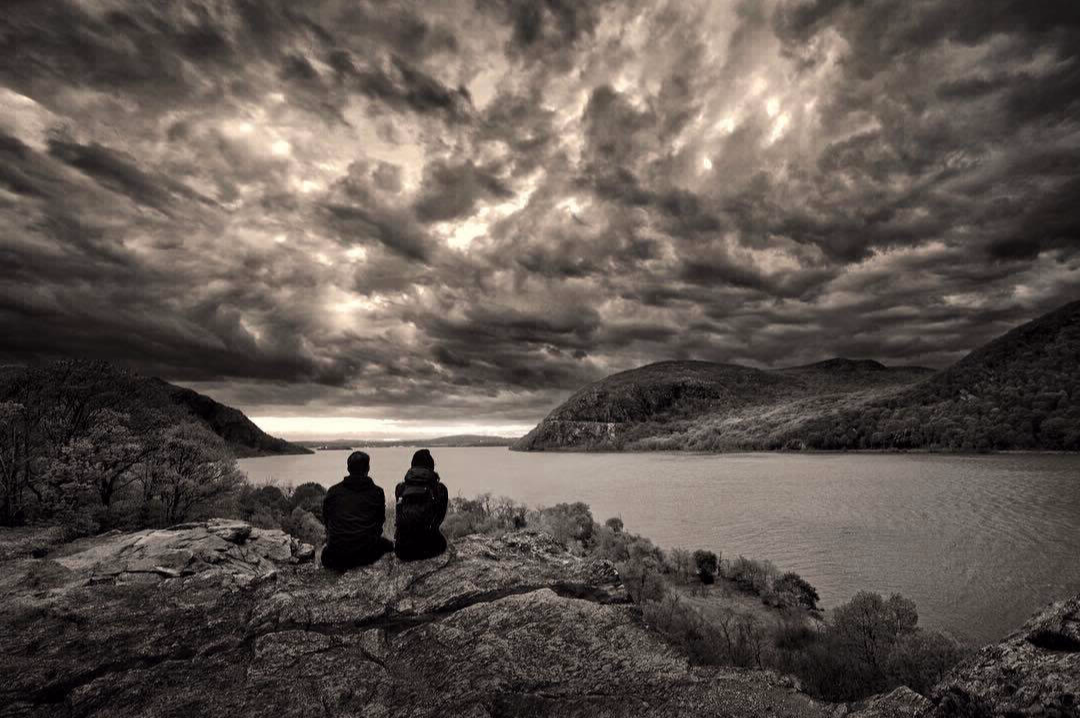
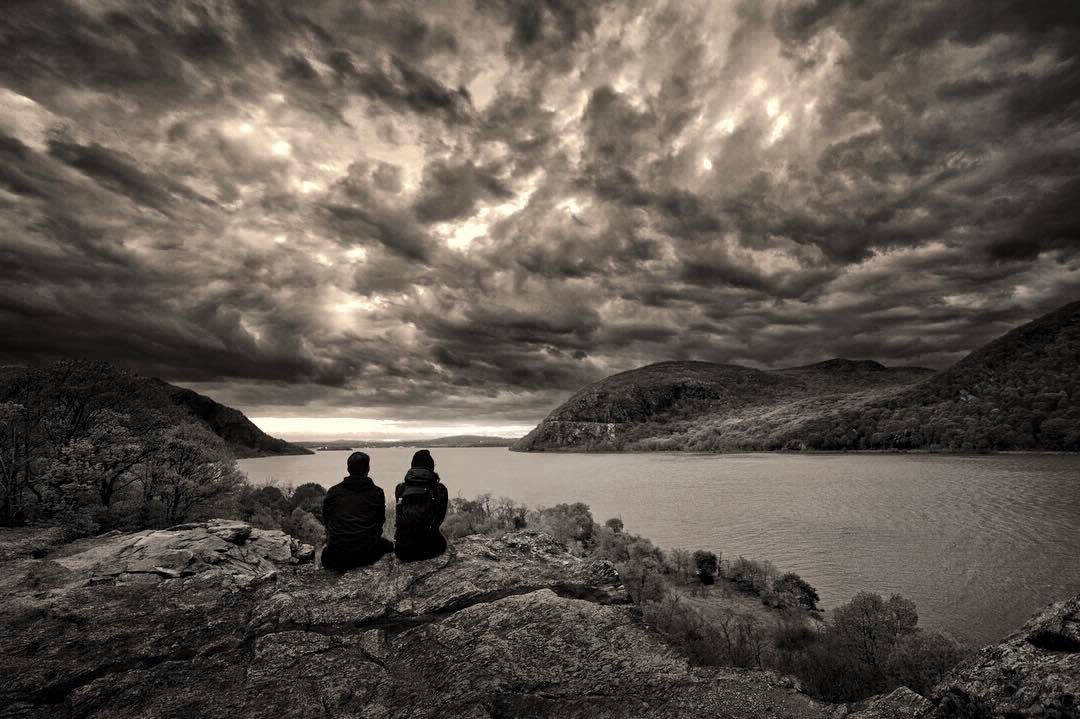
create github pages

diff --git a/index.html b/index.html
@@ -23,7 +23,7 @@
   
 </head>
 <body>
-  <section class="mbr-slider mbr-section mbr-section__container carousel slide mbr-section-nopadding" data-ride="carousel" data-keyboard="false" data-wrap="true" data-pause="false" data-interval="5000" id="slider-4" data-rv-view="0">
+  <section class="mbr-slider mbr-section mbr-section__container carousel slide mbr-section-nopadding" data-ride="carousel" data-keyboard="false" data-wrap="true" data-pause="false" data-interval="false" id="slider-4" data-rv-view="0">
     <div>
         <div>
             <div>
@@ -33,7 +33,7 @@
                 <div class="carousel-inner" role="listbox">
                     <div class="mbr-section mbr-section-hero carousel-item dark center mbr-section-full active" data-bg-video-slide="false" style="background-image: url(assets/images/hudsonvalleyseen-18382013-1909689339316640-6680148865250754560-n-1080x719.jpg);">
                         <div class="mbr-table-cell">
-                            <div class="mbr-overlay"></div>
+                            <div class="mbr-overlay" style="opacity: 1;"></div>
                             <div class="container-slide container">
                                 
                                 <div class="row">
@@ -46,7 +46,7 @@
                                 </div>
                             </div>
                         </div>
-                    </div><div class="mbr-section mbr-section-hero carousel-item dark center mbr-section-full" data-bg-video-slide="false" style="background-image: url(assets/images/hudsonvalleyseen-18382013-1909689339316640-6680148865250754560-n-1080x7190.jpg);">
+                    </div><div class="mbr-section mbr-section-hero carousel-item dark center mbr-section-full" data-bg-video-slide="false" style="background-image: url(assets/images/hudsonvalleyseen-18382013-1909689339316640-6680148865250754560-n-1080x7191.jpg);">
                         <div class="mbr-table-cell">
                             <div class="mbr-overlay"></div>
                             <div class="container-slide container">
@@ -93,7 +93,7 @@
 </section>
 
 
-  <section class="engine"><a href="https://mobirise.ws/f">easy website builder</a></section><script src="assets/web/assets/jquery/jquery.min.js"></script>
+  <section class="engine"><a href="https://mobirise.ws/m">drag and drop website creator</a></section><script src="assets/web/assets/jquery/jquery.min.js"></script>
   <script src="assets/tether/tether.min.js"></script>
   <script src="assets/bootstrap/js/bootstrap.min.js"></script>
   <script src="assets/smooth-scroll/smooth-scroll.js"></script>
